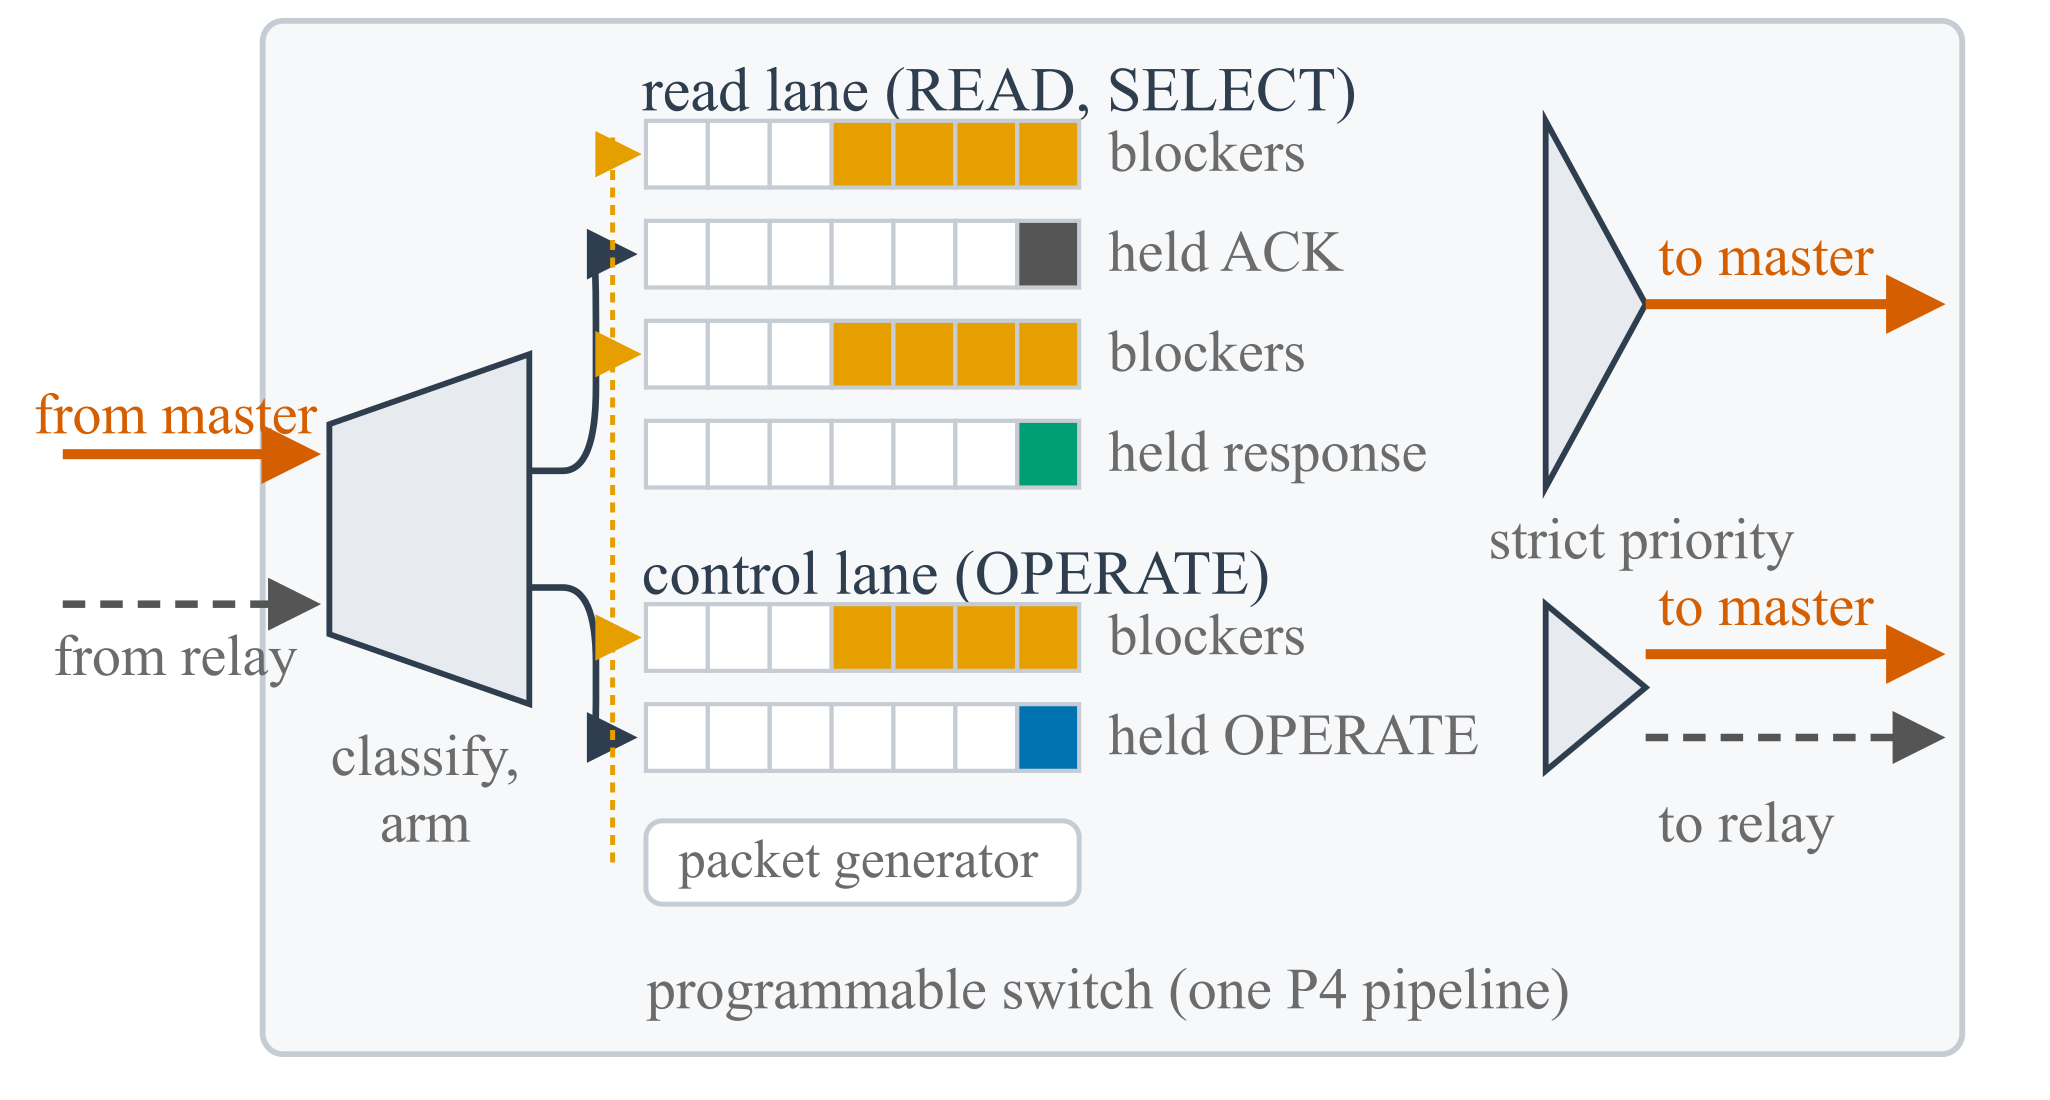
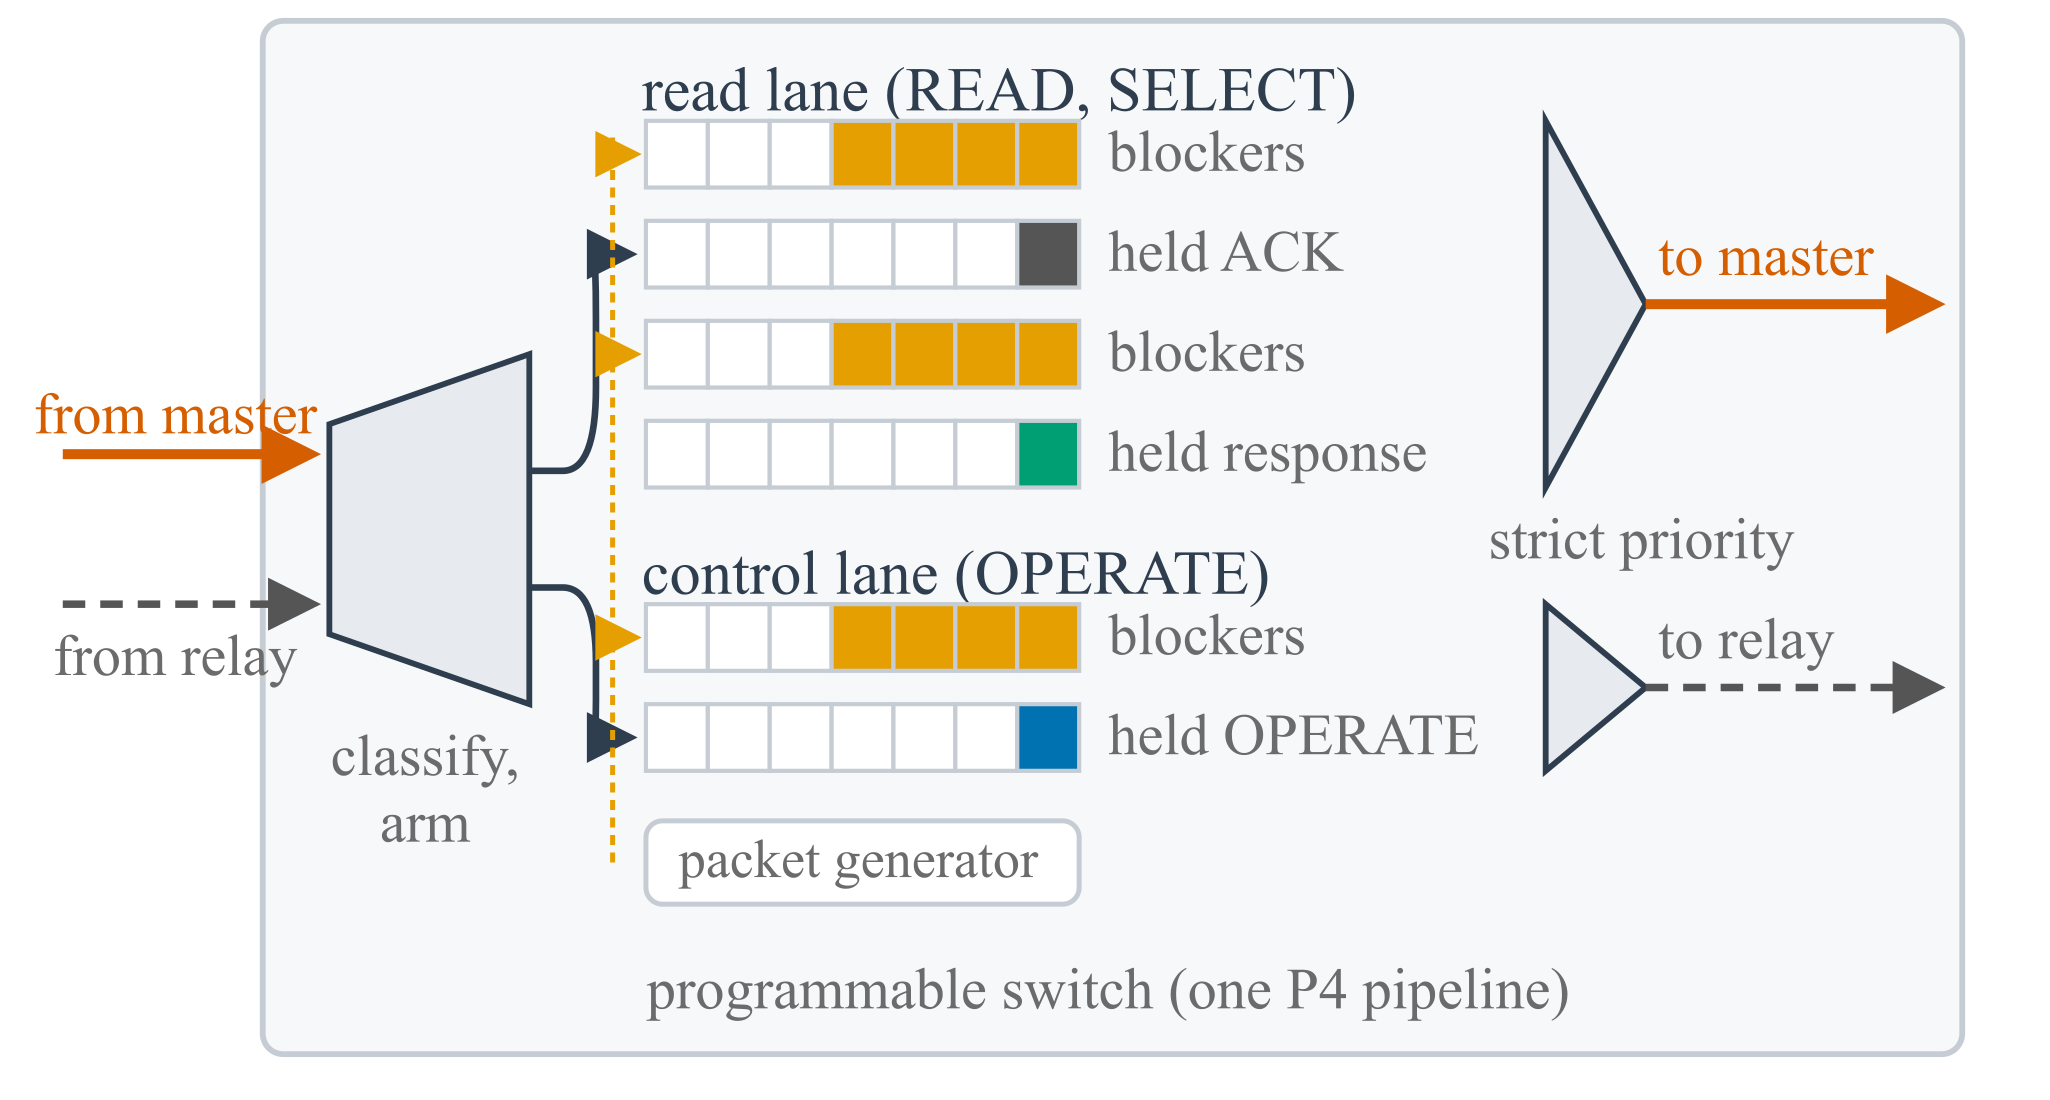
send the control lane to the relay in Figure 4, which is where the held OPERATE goes
The control lane's strict-priority scheduler carried two outputs, a solid
orange arrow to the master and a dashed one to the relay. Only the second is
real. That lane holds the OPERATE request on its way out, so nothing on it is
ever master-facing, and the blockers above it recirculate on the loopback and
reach no cable at all. The figure said the switch returns something to the
master from a queue that holds an outgoing command.

The read lane keeps its arrow to the master, because it holds what the
outstation sent back. The two lanes now split the way Figure 3's observation
model does: solid and observed on the master side, dashed and unobserved on the
relay side, which is what this figure's own caption claims.

build.sh PASS, ndss_preflight PASS at 13 of 13 pages, export_schematics --check
exports and mirrors identical. main.pdf republished.

Changed region(s): [[0.8117, 0.5255, 0.9678, 0.7109], [0.8117, 0.7418, 0.9054, 0.7727]]

diff --git a/paper/rewrite/pipeline/drawio/gen_design_drawio.py b/paper/rewrite/pipeline/drawio/gen_design_drawio.py
@@ -91,12 +91,13 @@ for y0, y1 in ((16, 60), (74, 94)):
 text(172, 62, 40, 9, "strict priority", 7, align="center")
 
 # ---------------- what leaves ----------------
+# The read lane returns what the outstation sent, so its scheduler feeds the master. The
+# control lane holds the OPERATE on its way out, so its scheduler feeds the relay and nothing
+# on it is ever master-facing. Blockers reach neither: they recirculate on the loopback.
 arrow((192, 38), (228, 38), VERM, 1.2)
 text(194, 28, 36, 9, "to master", 7, colour=VERM)
-arrow((192, 80), (228, 80), VERM, 1.2)
-text(194, 70, 36, 9, "to master", 7, colour=VERM)
-arrow((192, 90), (228, 90), GREY, 0.9, dashed=True)
-text(194, 96, 36, 9, "to relay", 7)
+arrow((192, 84), (228, 84), GREY, 0.9, dashed=True)
+text(194, 74, 36, 9, "to relay", 7)
 
 # ---------------- the generator that keeps the blocker queues non-empty ----------------
 # One dashed trunk with a branch into each blocker queue, rather than three separate runs.
